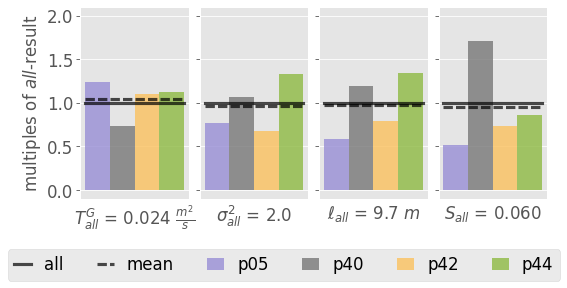
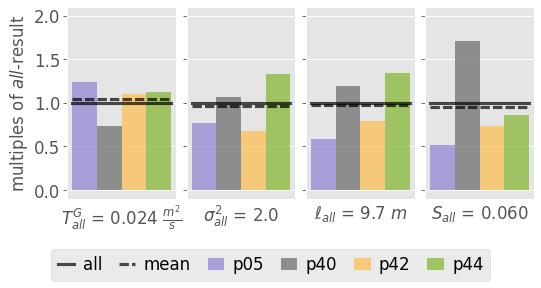
update fit results legend

diff --git a/src/03_postpro_results.py b/src/03_postpro_results.py
@@ -12,7 +12,7 @@ plt.style.use("ggplot")
 plt.rcParams.update({"font.size": 16, "pdf.fonttype": 42, "ps.fonttype": 42})
 
 # file extension of the saved plots
-file_ext = ".png"
+file_ext = ".pdf"
 
 # paths
 here = os.path.abspath(os.path.dirname(__file__))
@@ -130,7 +130,9 @@ def plot(site, root=None):
         loc="lower center",
         ncol=6,
         bbox_to_anchor=(0.5, 0),
-        handlelength=1
+        handlelength=1,
+        columnspacing=1,
+        handletextpad=0.5,
     )
     fig.tight_layout()
     fig.subplots_adjust(wspace=0.1, bottom=0.3)
